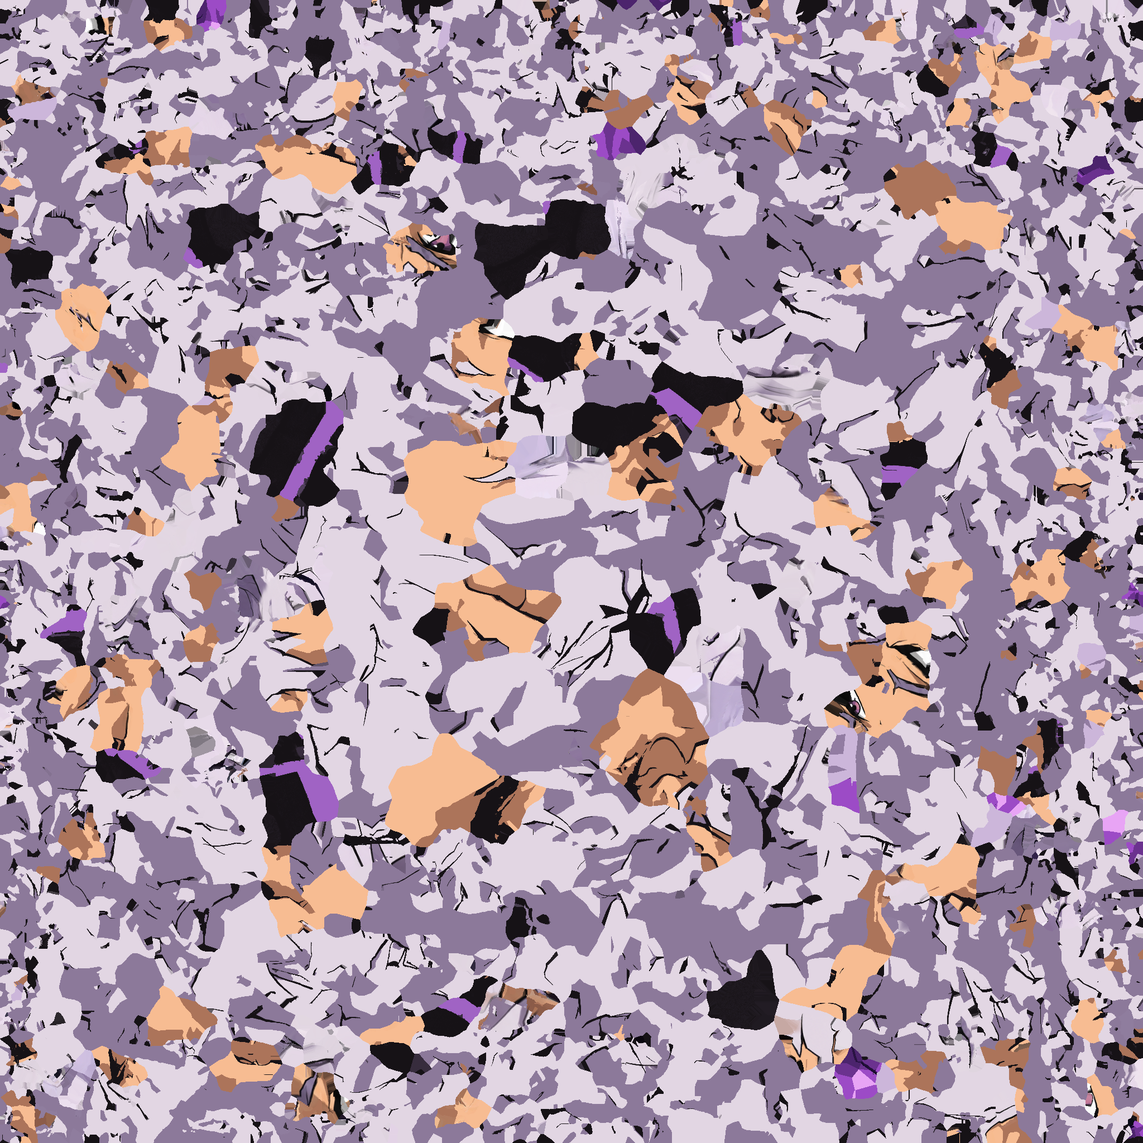
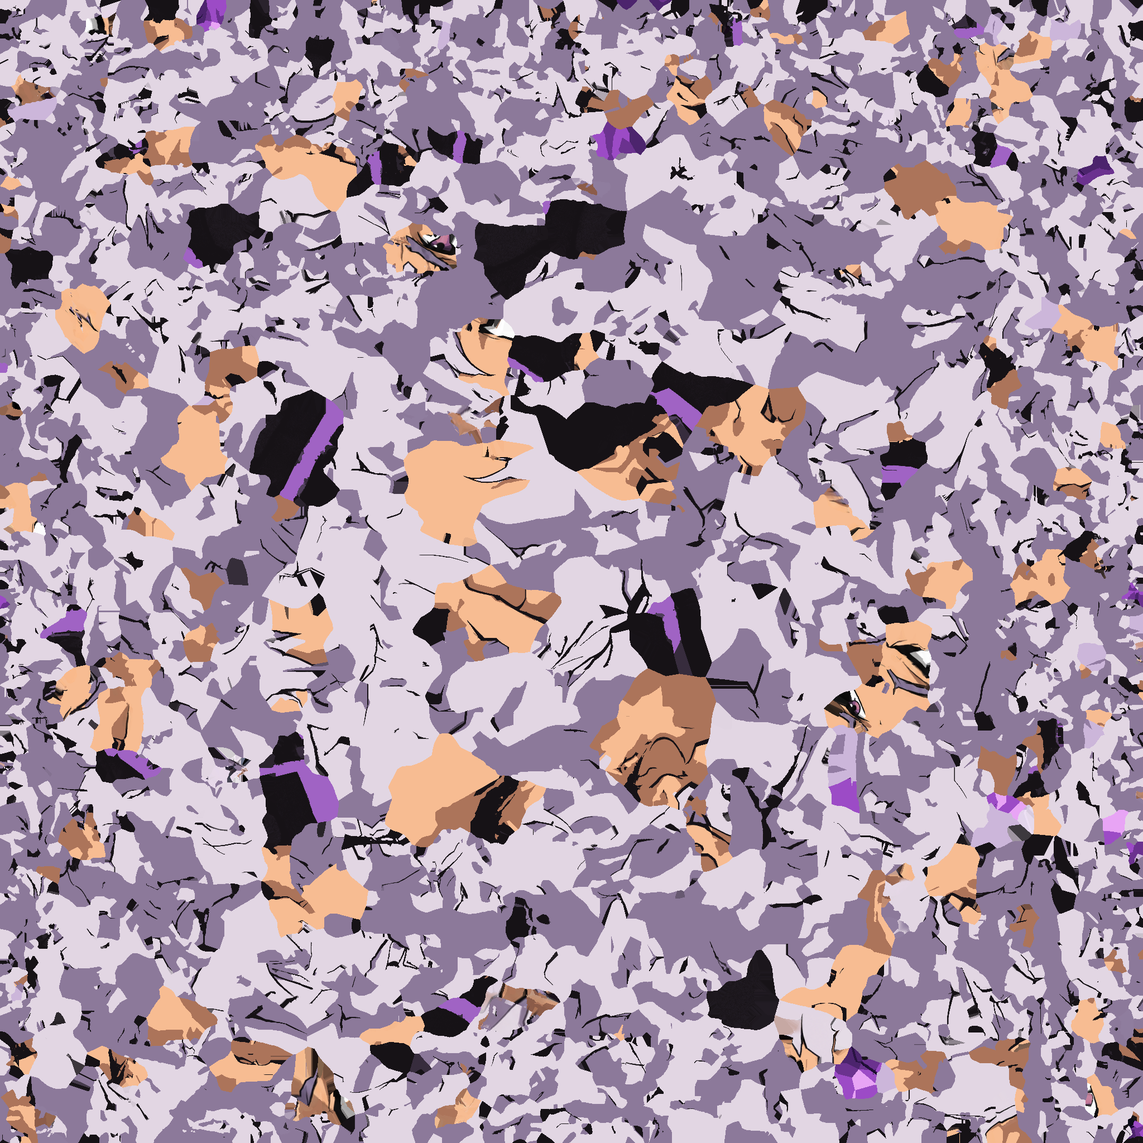
Kael: tempia tra orecchio e occhio dipinta dai disegni di lato, via i puntini sulla guancia (in controllo, non pubblicata)
La striscia di tempia accanto agli angoli degli occhi non veniva dipinta da
nessun disegno e teneva l'ombra delle ciocche nascoste di lato: ora è dei
disegni di lato come il resto della tempia, su tutti e due i lati. I texel dei
triangoli tolti dal modello non sbordano più sui triangoli vicini. Occhi e
sopracciglia come prima. Provata solo la pagina dell'anteprima: i test
completi e i controlli indipendenti sono in corso.

Claude-Session: https://claude.ai/code/session_014XUVKvWBodq3kjfPiKyGRo

diff --git a/tools/kael_fringe.py b/tools/kael_fringe.py
@@ -25,7 +25,8 @@ src/e_model.js mdHeadHide), the skin under them painted from the side images (si
 image's two locks over his right eye cut short, their tips above the brow (front_edit).
 
 face(...) paints in place and returns (the head's triangles kept, the sheet or None, per side image the triangles hidden
-from it or None, the hair's triangles that are part of the face or None)."""
+from it or None, the hair's triangles that are part of the face or None, the texels side_paint painted by the eyes' outer
+corners where the front image had painted nothing or None)."""
 import json, os
 import numpy as np
 from PIL import Image, ImageDraw
@@ -86,6 +87,7 @@ SCRAP = (40, .0025, .075)         # see face(): the hair's scraps lying on the f
 FREE_LOCK = (.006, 60, .5, .02)   # see free_locks()
 HIDE_WHOLE = 1 / 3                # see side_hide(): a lock hanging before the face is hidden whole from its side if over this share of its area is
 HIDE_IN = (.2, 80., 4)            # see side_hide(): the inner walls behind the hidden locks
+EYE_KEEP = .004                   # see face(): the eyes and the brows as painted before the side images, and this far around them (m): never the side images'
 HIDE_FOOT = (3, 70.)              # see side_hide(): the hidden locks' feet: this many rings of triangles next to them, not further round the head than [1] degrees
 LOCK_FILL = 110                   # see face(): the hair's fill colours (not its lines) are lighter than this
 
@@ -615,7 +617,7 @@ def hide_shares(Q, I, keep, hid):
     return (hs / np.maximum(tot, 1e-12))[wld]
 
 
-def side_paint(out, Q, I, keep, hide, locks, is_skin, ys, xs, ks, pos, nor, ear_v, collar_v, cams, mid, eye_m, chin_m, done=None, jm=None, skin_tri=None, is_hair=None, hair_tri=None, free=None, is_purple=None):
+def side_paint(out, Q, I, keep, hide, locks, is_skin, ys, xs, ks, pos, nor, ear_v, collar_v, cams, mid, eye_m, chin_m, done=None, jm=None, skin_tri=None, is_hair=None, hair_tri=None, free=None, is_purple=None, keep_zone=None, front_done=None):
     """The head's sides as their images draw them, seen from that side (Meshy's locks there hidden, side_hide): each
     texel on the side (SIDE_PAINT: from [0] degrees around the head, fading in over [1], to [3] behind the ear, fading
     out over [4]: further round it painted the profiles' neck on the hair behind the ears and their edge-on streaks on
@@ -623,15 +625,24 @@ def side_paint(out, Q, I, keep, hide, locks, is_skin, ys, xs, ks, pos, nor, ear_
     image draws) from the side's
     images that see it then (the profile, the 3/4), all of their drawing (the skin, its lines and shading, the locks
     they draw over the temple; not their skin on a lock standing over the face, locks), weighted by how much it faces
-    each (to the power SIDE_POW); blended over what was painted at the fade. Returns how many texels."""
+    each (to the power SIDE_POW); blended over what was painted at the fade. Returns how many texels, and which of
+    them lie by the eyes' outer corners where no image had painted (below)."""
     sm = lambda a, b, x: (lambda q: q * q * (3 - 2 * q))(np.clip((x - a) / (b - a), 0, 1))
     th = np.radians(cams['fronte']['yaw']); fwd_f = np.array([np.sin(th), 0, np.cos(th)])
     az = np.degrees(np.arctan2(pos[:, 0] - mid, pos[:, 2] - PRESS_WIN[4]))
     yw = sm(chin_m - SIDE_PAINT[2][0] - .01, chin_m - SIDE_PAINT[2][0], pos[:, 1]) * (1 - sm(eye_m + SIDE_PAINT[2][1], eye_m + SIDE_PAINT[2][1] + .01, pos[:, 1]))
     zone = feat_zone(pos, nor, fwd_f, mid, eye_m, chin_m)
+    # (by the eyes' outer corners (EYE_ZONE, beyond the features' FEAT[0]) the front image has the say, but there it sees the locks standing
+    # before the temple, not the temple, and paints nothing. The temple kept Meshy's skin with the shadow of those locks, hidden from the
+    # side, or the 3/4 image's shadow alone where that draws skin and the profile a lock: a brown patch between the ear and the eye, the tip
+    # of a drawn lock under it (Denis, 11/11, circling it on the preview). What the front image did not paint there is the side images' as
+    # the rest of the temple; not the eyes and the brows themselves (keep_zone), which stay as they were)
+    loose = np.zeros(len(ks), bool)
+    if front_done is not None and keep_zone is not None:
+        loose = ~front_done & ~keep_zone & (zone > 0) & (np.abs(pos[:, 0] - mid) > FEAT[0]); zone = np.where(loose, 0., zone)
     base = yw * (1 - zone) * ~ear_v[I[ks]].any(1) * ~collar_v[I[ks]].any(1) * keep[ks]   # (the ears too: as the side images draw them, the hair over them)
     if free is not None: base = base * ~free[ks]   # (not the locks hanging free before the face: no image draws them where they are)
-    total = 0
+    total = 0; got_loose = np.zeros(len(ks), bool)
     for side, sign in (('dx', -1), ('sx', 1)):
         wwin = base * sm(SIDE_PAINT[0], SIDE_PAINT[0] + SIDE_PAINT[1], az * sign) * (1 - sm(SIDE_PAINT[3], SIDE_PAINT[3] + SIDE_PAINT[4], az * sign))
         sel = np.nonzero(wwin > 1e-3)[0]
@@ -676,9 +687,9 @@ def side_paint(out, Q, I, keep, hide, locks, is_skin, ys, xs, ks, pos, nor, ear_
             lockc = sk3[ok] & is_hair(got) & ~is_skin(got); a = np.where(lockc[:, None], (a >= .5).astype(float), a)
         out[ys[k], xs[k]] = out[ys[k], xs[k]] * (1 - a) + got * a
         if done is not None: done[k] = True
-        total += int(ok.sum())
-    print('face: %d texels of the temples and the cheeks painted from the side images (as seen from the side)' % total)
-    return total
+        total += int(ok.sum()); got_loose[k] = loose[k]
+    print('face: %d texels of the temples and the cheeks painted from the side images (as seen from the side; %d by the eyes\' corners no image had painted)' % (total, int(got_loose.sum())))
+    return total, got_loose
 
 
 def skin_fill(out, I, ys, xs, ks, pos, hair_v, ear_v, collar_v, done, keep, mid, chin_m, top, is_skin, force=None, standing=None, skin_v=None):
@@ -809,7 +820,7 @@ def face(out, Q, N, UV, I, ys, xs, ks, pos, nor, vc, hair_v, ear_v, collar_v, mi
     pr_sel = pressed[I[ks[sel]]].any(1) if pressed is not None else np.zeros(len(sel), bool)
     sm = lambda a, b, x: (lambda q: q * q * (3 - 2 * q))(np.clip((x - a) / (b - a), 0, 1))
     zone = feat_zone(p, n, fwd, mid, eye_m, chin_m)
-    acc = np.zeros((len(sel), 3)); wsum = np.zeros(len(sel)); seen_any = np.zeros(len(sel), bool)
+    acc = np.zeros((len(sel), 3)); wsum = np.zeros(len(sel)); seen_any = np.zeros(len(sel), bool); front_p = np.zeros(len(sel), bool)
     under_ear = under_ears(p, mid) & skin_t[ks[sel]]; neck = (p[:, 1] < chin_m) | (p[:, 2] < 0)
     for view, cam in cams.items():
         D, F = (Dfr, Ffr) if view == 'fronte' else drawing(view); Hv, Wv = F.shape
@@ -843,11 +854,12 @@ def face(out, Q, N, UV, I, ys, xs, ks, pos, nor, vc, hair_v, ear_v, collar_v, mi
             band = (p[:, 1] > eye_m - EYE_BAND[0]) & (p[:, 1] < eye_m + EYE_BAND[1])
             w = np.where(band & FM[vi, ui] & ok, w * FACE_PRIO + FACE_PRIO * 1e-9, w)
         w = w * zone if view == 'fronte' else w * (1 - zone)   # (the features: the front image's alone)
-        if view == 'fronte': w = np.where(ok & (zone > 0), np.maximum(w, 1e-6 * zone), w)
+        if view == 'fronte': w = np.where(ok & (zone > 0), np.maximum(w, 1e-6 * zone), w); front_p = w > 0
         acc += w[:, None] * col; wsum += w
     painted = wsum > 0
     out[ys[sel[painted]], xs[sel[painted]]] = acc[painted] / wsum[painted, None]
     done = np.zeros(len(ks), bool); done[sel[painted]] = True
+    fdone = np.zeros(len(ks), bool); fdone[sel[front_p]] = True   # (painted by the front image itself: side_paint)
     under = ~painted & seen_any & (n @ fwd > .3)   # (seen, but every image draws hair there: under the bangs)
     if sheet: out[ys[sel[under]], xs[sel[under]]] = UNDER   # (without the sheet: as it was, the skin with its shadows under Meshy's locks)
     print('face: %d texels painted from the images (%d of the features from the front one), %d under the bangs in the skin\'s shadow' % (
@@ -862,11 +874,15 @@ def face(out, Q, N, UV, I, ys, xs, ks, pos, nor, vc, hair_v, ear_v, collar_v, mi
         x0, y0 = np.clip(np.floor(u).astype(int), 0, W - 2), np.clip(np.floor(v).astype(int), 0, H - 2); fx, fy = (u - x0)[:, None], (v - y0)[:, None]
         col = (Dfr[y0, x0] * (1 - fx) + Dfr[y0, x0 + 1] * fx) * (1 - fy) + (Dfr[y0 + 1, x0] * (1 - fx) + Dfr[y0 + 1, x0 + 1] * fx) * fy
         out[ys[sel[k]], xs[sel[k]]] = col[k]
-        done[sel[k]] = True
+        done[sel[k]] = True; fdone[sel[k]] = True
         print('face: %d texels of the forehead painted with the front image\'s bangs' % int(k.sum()))
+    temple = None
     if hide is not None:
-        side_paint(out, Q, I, keep, hide, locks, is_skin, ys, xs, ks, pos, nor, ear_v, collar_v, cams, mid, eye_m, chin_m, done=done, jm=JM, skin_tri=skin_t, is_hair=is_hair,
-                   hair_tri=hair_v[I].sum(1) >= 2, free=free, is_purple=is_purple)
+        import kael_flat   # (the eyes and the brows as its pass keeps them, EYE_KEEP around them)
+        kk = np.nonzero(keep[ks])[0]; eyes_x = np.zeros(len(ks), bool)
+        eyes_x[kk] = kael_flat.eyes_mask(pos[kk].astype(np.float64), nor[kk].astype(np.float32), out[ys[kk], xs[kk]].astype(np.float32), (is_skin(vc)[I].sum(1) >= 2)[ks[kk]], mid, eye_m, halo=EYE_KEEP)
+        _, temple = side_paint(out, Q, I, keep, hide, locks, is_skin, ys, xs, ks, pos, nor, ear_v, collar_v, cams, mid, eye_m, chin_m, done=done, jm=JM, skin_tri=skin_t, is_hair=is_hair,
+                               hair_tri=hair_v[I].sum(1) >= 2, free=free, is_purple=is_purple, keep_zone=eyes_x, front_done=fdone)
         skin_fill(out, I, ys, xs, ks, pos, hair_v, ear_v, collar_v, done, keep, mid, chin_m, top, is_skin, force, locks[HIDE_ORDER[0]], is_skin(vc))
     if lock_t is not None:   # (the skin's colour left on the standing locks, Meshy's own and the side images': as the nearest hair's, not its lines')
         from scipy.spatial import cKDTree
@@ -876,7 +892,7 @@ def face(out, Q, N, UV, I, ys, xs, ks, pos, nor, vc, hair_v, ear_v, collar_v, mi
         if bad.any() and len(src):
             _, j_ = cKDTree(pos[src]).query(pos[lt[bad]]); out[ys[lt[bad]], xs[lt[bad]]] = out[ys[src[j_]], xs[src[j_]]]
         print('face: %d skin-coloured texels on the locks standing over the head as the hair next to them' % int(bad.sum()))
-    if not sheet: return keep, None, hide, force
+    if not sheet: return keep, None, hide, force, temple
     # the front image's bangs: a sheet in front of the face (its hair and the lines between its locks, over the face's skin)
     FMf = face_mask(Dfr, Ffr, is_skin, is_hair)
     Za, _ = view_depth(Q, Ik, fr, W, H)
@@ -916,4 +932,4 @@ def face(out, Q, N, UV, I, ys, xs, ks, pos, nor, vc, hair_v, ear_v, collar_v, mi
     al = np.zeros((th_, tw)); bm = bangs[max(0, y0):y1, max(0, x0):x1]; al[max(0, y0) - y0:max(0, y0) - y0 + bm.shape[0], max(0, x0) - x0:max(0, x0) - x0 + bm.shape[1]] = bm
     rgba = np.dstack([pad, al * 255]).clip(0, 255).astype(np.uint8)
     print('face: the front image\'s bangs a sheet of %d points, %d triangles (%d x %d px of it)' % (len(sp), len(tris), tw, th_))
-    return keep, (sp, suv, np.array(tris, np.int64), rgba), hide, force
+    return keep, (sp, suv, np.array(tris, np.int64), rgba), hide, force, temple

diff --git a/tools/kael_flat.py b/tools/kael_flat.py
@@ -122,6 +122,26 @@ def eyes_zone(p, n, mid, eye_m, skin):
     return out
 
 
+def eyes_mask(p, n, c, skin2, mid, eye_m, halo=None, skip=None):
+    """Per texel (place p, normal n, colour c; skin2: of a triangle with two corners skin's or more): of the eyes and the
+    brows themselves, which flatten() leaves as painted: in eyes_zone() and what lies within EYE[7] m of it (the crumbs
+    inside the zone that face away or sit a little off the skin), what is not the skin's (their whites, irises, lashes,
+    the brows and their lines) and halo m (HALO[0]) around it; the skin in the rest of the zone is the cheeks'. skip: the
+    texels that are not theirs whatever their colour (the locks kael_fringe.side_paint() paints on the temples by the
+    eyes' corners: hair's colours, they would count as brows and stay soft)."""
+    names = list(PAL); cols = np.array([PAL[k] for k in names], np.float32)
+    eye = eyes_zone(p, n, mid, eye_m, skin2)
+    if skip is not None: eye &= ~skip
+    if eye.any():
+        rest = np.nonzero(~eye & (np.abs(p[:, 0] - mid) < EYE[0] + .004) & (np.abs(p[:, 1] - eye_m - EYE[2]) < EYE[1] + .004) & (True if skip is None else ~skip))[0]
+        dd, _ = cKDTree(p[eye]).query(p[rest], distance_upper_bound=EYE[7]); eye[rest[np.isfinite(dd)]] = True
+    if eye.any():
+        e = np.nonzero(eye)[0]; feat = ~_skinish(c[e], cols, names)
+        if feat.any():
+            dd, _ = cKDTree(p[e[feat]]).query(p[e], distance_upper_bound=HALO[0] if halo is None else halo); eye[e[~np.isfinite(dd)]] = False
+    return eye
+
+
 def _split(c, cols):
     """Each colour c as each flat colour with ink over it: (the ink's share, what is left over), per flat colour."""
     v = np.array(INKC, np.float32)[None] - cols; vv = (v * v).sum(1)
@@ -145,7 +165,7 @@ def _comps(lab, j, ok):
     return connected_components(coo_matrix((np.ones(len(r), np.int8), (r, j[same])), shape=(N, N)).tocsr(), directed=False)[1]
 
 
-def flatten(out, It, ys, xs, ks, pos, nor, hair_v, skin_v, ear_v, collar_v, keep_t, mid, eye_m, chin_m, face_t=None, log=print):
+def flatten(out, It, ys, xs, ks, pos, nor, hair_v, skin_v, ear_v, collar_v, keep_t, mid, eye_m, chin_m, face_t=None, log=print, not_eye=None):
     names = list(PAL); cols = np.array([PAL[k] for k in names], np.float32); nl = len(names)
     use = np.nonzero(keep_t[ks])[0]   # (the triangles left out are not drawn)
     p = pos[use].astype(np.float64); n = nor[use].astype(np.float32); c = out[ys[use], xs[use]].astype(np.float32); T = It[ks[use]]
@@ -158,15 +178,7 @@ def flatten(out, It, ys, xs, ks, pos, nor, hair_v, skin_v, ear_v, collar_v, keep
     ear = ear_v[T].all(1) | (ear_v[T].any(1) & (c[:, 2] - c[:, 1] > 60))
     if face_t is not None: hair &= ~face_t[ks[use]]   # (not the hair's scraps that are part of the face: tools/kael_fringe.py)
     hair3 = hair & (hair_v[T].sum(1) == 3) & ~col & ~ear   # (all hair: the hair's two colours alone; a triangle on the hairline may be part skin)
-    eye = eyes_zone(p, n, mid, eye_m, skin_v[T].sum(1) >= 2)
-    if eye.any():   # (and what lies within EYE[7] m of them: the crumbs inside the zone that face away or sit a little off the skin)
-        rest = np.nonzero(~eye & (np.abs(p[:, 0] - mid) < EYE[0] + .004) & (np.abs(p[:, 1] - eye_m - EYE[2]) < EYE[1] + .004))[0]
-        dd, _ = cKDTree(p[eye]).query(p[rest], distance_upper_bound=EYE[7]); eye[rest[np.isfinite(dd)]] = True
-    if eye.any():   # (of that zone, the eyes and the brows themselves: what is not the skin's (their whites, irises, lashes, the brows and their lines)
-        # and HALO[0] m around it. The skin in the rest of the zone is cleaned as the cheeks': its soft streaks and smudges stayed)
-        e = np.nonzero(eye)[0]; feat = ~_skinish(c[e], cols, names)
-        if feat.any():
-            dd, _ = cKDTree(p[e[feat]]).query(p[e], distance_upper_bound=HALO[0]); eye[e[~np.isfinite(dd)]] = False
+    eye = eyes_mask(p, n, c, skin_v[T].sum(1) >= 2, mid, eye_m, skip=None if not_eye is None else not_eye[use])
     fixed = ear | eye
     allow = np.zeros((len(use), nl), bool)
     allow[np.ix_(~col, [names.index(k) for k in HEAD])] = True; allow[np.ix_(col, [names.index(k) for k in COLLAR])] = True
@@ -284,8 +296,8 @@ if __name__ == '__main__':   # (the pass alone, to work on it: python3 tools/kae
     from scipy import ndimage
     d = np.load(sys.argv[1]); out = d['out'].astype(np.float64); prepare(d['Q'], d['It'])
     flatten(out, d['It'], d['ys'], d['xs'], d['ks'], d['pos'], d['nor'], d['hair_v'], d['skin_v'], d['ear_v'], d['collar_v'], d['keep_t'], float(d['mid']), float(d['eye_m']), float(d['chin_m']),
-            face_t=d['face_t'] if 'face_t' in d else None)
-    TS = out.shape[0]; cov = np.zeros((TS, TS), bool); cov[d['ys'], d['xs']] = True
+            face_t=d['face_t'] if 'face_t' in d else None, not_eye=d['not_eye'] if 'not_eye' in d else None)
+    TS = out.shape[0]; cov = np.zeros((TS, TS), bool); kt = d['keep_t'][d['ks']]; cov[d['ys'][kt], d['xs'][kt]] = True   # (as tools/kael_head.py, but for the eyes' surroundings)
     _, (iy, ix) = ndimage.distance_transform_edt(~cov, return_indices=True); out[~cov] = out[iy[~cov], ix[~cov]]
     Image.fromarray(np.clip(out, 0, 255).round().astype(np.uint8)).save(os.path.join(sys.argv[2], 'kael_head.png'), optimize=True)
     print('written', os.path.join(sys.argv[2], 'kael_head.png'), os.path.getsize(os.path.join(sys.argv[2], 'kael_head.png')), 'bytes')

diff --git a/tools/kael_head.py b/tools/kael_head.py
@@ -69,6 +69,7 @@ SKIN_SPREAD = 30.
 # hair under other locks (hair[0], [1] as the skin's), turned from Lh (a light from above: a front light put the whole
 # back of the head in shadow, the images draw it lit from every side) under hair[2], and where Meshy's own is darkest (the share hair[3]); their edges smoothed
 # over blur texels (skin, hair). None: the texture's own shading.
+PAD_KEEP = 6                       # texels: see the texture's padding in main()
 SHADE = {'L': (0., .5, .87), 'Lh': (0., 1., .2), 'skin': (.006, .0015, -.15), 'neck': .004, 'hair': (.005, .004, -.2, .13), 'blur': (.8, 2.5)}
 # the head painted from Denis's six head images (10/11/2026, Denis: "l'hai migliorato ma troppo poco"): their cameras
 # (cams: tools/kael_hair_fit.py, fit on the face's skin), each of the hair's texels from the views that see it and draw
@@ -453,11 +454,11 @@ def main(bust):
             out[ys[gi[nr]], xs[gi[nr]]] = out[ys[fill[jj[nr]]], xs[fill[jj[nr]]]]; out[ys[gi[~nr]], xs[gi[~nr]]] = np.array(HAIR[1], float)
             print('hair: %d grey texels on the hair\'s triangles as the nearest painted hair' % len(gi))
         print('painted from the images: %d texels (%.0f%% of the head\'s)' % (n_p, 100 * n_p / len(ys)))
-    keep_t, card, sides_t, face_t = np.ones(len(It), bool), None, None, None
+    keep_t, card, sides_t, face_t, temple_x = np.ones(len(It), bool), None, None, None, None
     if FACE:   # the face from the images, Meshy's locks over it out, the front image's bangs a sheet (tools/kael_fringe.py)
         from kael_fringe import face as face_paint
         cams_ = json.load(open(os.path.join(ROOT, PAINT['cams'])))
-        keep_t, card, sides_t, face_t = face_paint(out, Q, Nq, UV, It, ys, xs, ks, pos, nor, vc, hair_v, ear_v, collar_v, FACE_MID, eye_m, chin_m, cams_, is_skin, is_hair, sheet=FACE == 'sheet', paint_bangs=FACE in ('paint', 'all'), paint_all=FACE == 'all', pressed=None if press_w is None else press_w > .05, sides=FACE == 'paint' and SIDES, bary=bary, free=free_t, piece=piece_t)
+        keep_t, card, sides_t, face_t, temple_x = face_paint(out, Q, Nq, UV, It, ys, xs, ks, pos, nor, vc, hair_v, ear_v, collar_v, FACE_MID, eye_m, chin_m, cams_, is_skin, is_hair, sheet=FACE == 'sheet', paint_bangs=FACE in ('paint', 'all'), paint_all=FACE == 'all', pressed=None if press_w is None else press_w > .05, sides=FACE == 'paint' and SIDES, bary=bary, free=free_t, piece=piece_t)
     # the earrings in the drawing's purples (EAR_TONES: by how much each facet faces EAR_LIGHT), the bead and the hook in
     # its silver (EAR_SILVER: lit, shaded); their lines black
     # the shelf between the neck and the collar's rim: the bust's collar is pushed out to Kael's, the neck's skin is not, and the
@@ -504,11 +505,20 @@ def main(bust):
     if os.environ.get('KAEL_FLAT_DUMP'):   # (the state before the flat colours' pass, to work on that pass alone: tools/kael_flat.py's own main)
         np.savez(os.environ['KAEL_FLAT_DUMP'], out=out.astype(np.float32), It=It, ys=ys, xs=xs, ks=ks, pos=pos.astype(np.float32), nor=nor.astype(np.float32), hair_v=hair_v, skin_v=is_skin(vc),
                  ear_v=ear_v, collar_v=collar_v, keep_t=keep_t, mid=FACE_MID, eye_m=eye_m, chin_m=chin_m, free_t=free_t if free_t is not None else np.zeros(len(It), bool), Q=Q,
-                 face_t=face_t if face_t is not None else np.zeros(len(It), bool))
+                 face_t=face_t if face_t is not None else np.zeros(len(It), bool), not_eye=temple_x if temple_x is not None else np.zeros(len(ks), bool))
+    fixed_x = None
     if FLAT:   # (the drawings' flat colours, the eyes and the brows left as painted: tools/kael_flat.py)
         import kael_flat
-        kael_flat.prepare(Q, It); kael_flat.flatten(out, It, ys, xs, ks, pos, nor, hair_v, is_skin(vc), ear_v, collar_v, keep_t, FACE_MID, eye_m, chin_m, face_t=face_t)
-    cov = np.zeros((TS, TS), bool); cov[ys, xs] = True
+        kael_flat.prepare(Q, It); fl_ = kael_flat.flatten(out, It, ys, xs, ks, pos, nor, hair_v, is_skin(vc), ear_v, collar_v, keep_t, FACE_MID, eye_m, chin_m, face_t=face_t, not_eye=temple_x)
+        fixed_x = fl_[2][fl_[3]]   # (the eyes', the brows' and the earrings' texels, left as painted)
+    # (the texels no drawn triangle holds as the nearest drawn one's. Those of the triangles left out too (Meshy's locks over the face): they kept
+    # their hair's paint, and the drawn triangles next to them in the texture picked it up along their edges, lavender and black dots on the
+    # cheek under a lock's tip; Denis's screenshot of 11/11. Not within PAD_KEEP texels of the eyes', the brows' and the earrings': there
+    # every texel stays as it was, nothing of theirs changes, "occhi e sopracciglia non si toccano")
+    cov = np.zeros((TS, TS), bool); kt = keep_t[ks]; cov[ys[kt], xs[kt]] = True
+    if fixed_x is not None and len(fixed_x):
+        fm = np.zeros((TS, TS), bool); fm[ys[fixed_x], xs[fixed_x]] = True; allc = np.zeros((TS, TS), bool); allc[ys, xs] = True
+        cov |= allc & ndimage.binary_dilation(fm, iterations=PAD_KEEP)
     _, (iy, ix) = ndimage.distance_transform_edt(~cov, return_indices=True); out[~cov] = out[iy[~cov], ix[~cov]]
     # (lossless: a JPEG smears every border between two flat colours, and halves the colours' resolution)
     Image.fromarray(np.clip(out, 0, 255).round().astype(np.uint8)).save(os.path.join(KAEL_PKG, 'kael_head.png'), optimize=True)

diff --git a/docs/meshy/KAEL.md b/docs/meshy/KAEL.md
@@ -338,6 +338,29 @@ controlli), "si ok, usa queste 4". **Non pubblicata: le immagini vanno a Denis e
   - provato e lasciato: ridisporre le isole dell'atlante con spazio tra loro (per quando la testa è piccola e la
     scheda grafica legge le copie ridotte della pittura): a 130 pixel i punti lontani dall'ideale passavano solo dal
     14,3% al 13,8%, con un'immagine grande il doppio. Non è quella la causa di ciò che resta a quella grandezza.
+- **Tempia tra orecchio e occhio, puntini sulla guancia** (11/11, Denis sull'anteprima pubblicata, cerchiando la
+  tempia destra vista da dietro di lato: lì c'era una macchia marrone con sotto la punta di una ciocca dipinta, dove
+  il suo disegno di profilo ha le ciocche pulite davanti all'orecchio):
+  - **causa**: accanto agli angoli esterni degli occhi (`EYE_ZONE`, fino a 56 mm dal centro del viso) dipinge solo il
+    disegno di fronte, perché le ciocche dei disegni di lato non finiscano sugli occhi. Ma di fronte quella striscia
+    di tempia è dietro le ciocche: il disegno di fronte lì non dipingeva niente. La striscia restava con la pelle di
+    Meshy e l'ombra cotta delle ciocche che di lato spariscono (`SHADE`, "sotto le ciocche"), oppure con la sola ombra
+    del disegno di tre quarti dove quello disegna pelle e il profilo una ciocca. Lo stesso su tutti e due i lati;
+  - **cura** (`side_paint` e `face` in `tools/kael_fringe.py`): quello che il disegno di fronte non ha dipinto
+    (`front_done`), oltre la zona dei lineamenti (`FEAT[0]`, 42 mm) e fuori dagli occhi e dalle sopracciglia veri
+    (`eyes_mask` di `tools/kael_flat.py`, più 4 mm: `EYE_KEEP`), è dei disegni di lato come il resto della tempia:
+    ora lì ci sono le ciocche del profilo, intere, fino alla punta sulla guancia. Quei texel non contano come
+    "sopracciglia" nel passaggio dei colori piatti (`not_eye`): sono capelli e vengono puliti come gli altri;
+  - **puntini sulla guancia** (si vedevano nella stessa foto): i texel dei triangoli tolti dal modello (le ciocche di
+    Meshy sopra il viso) tenevano la loro pittura da capelli, e i triangoli disegnati accanto nell'atlante la
+    prendevano lungo i bordi: puntini lavanda e neri sulla guancia sotto la punta di una ciocca. Ora i texel che
+    nessun triangolo disegnato usa prendono il colore del texel disegnato più vicino (`tools/kael_head.py`, alla
+    scrittura della pittura), tranne entro 6 texel dagli occhi, dalle sopracciglia e dagli orecchini (`PAD_KEEP`): lì
+    resta tutto com'era;
+  - **occhi e sopracciglia**: geometria e ciocche nascoste identiche (`kael_head.bin` e `.json` uguali byte per
+    byte); nella pittura, dentro la maschera di occhi e sopracciglia cambiano 13 texel su 52.721, e non sono né occhio
+    né sopracciglio (un'ombra scura vecchia oltre la coda del sopracciglio destro, presa dalla maschera per il
+    colore);
 - **Come cercare un difetto** (strumenti di lavoro, non nel repository): registrare quale passaggio di
   `tools/kael_head.py` ha scritto per ultimo ogni texel (avvolgendo `paint`, `side_paint`, `skin_fill` e confrontando
   la texture prima e dopo), poi disegnare la testa in software da qualunque angolo colorando ogni pixel per passaggio o
